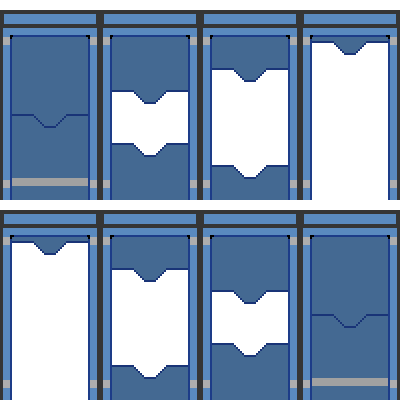
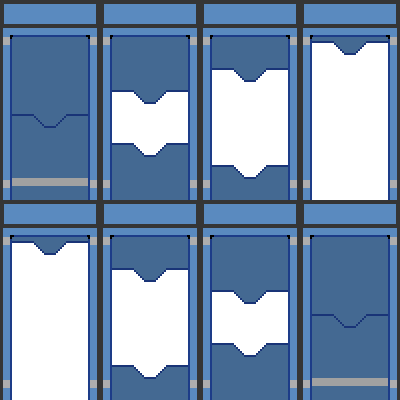
Add doors

Changed region(s): [[0.0, 0.48, 1.0, 0.54], [0.0, 0.0, 1.0, 0.06]]

diff --git a/packages/web-app/src/core/map/parsing.ts b/packages/web-app/src/core/map/parsing.ts
@@ -5,7 +5,7 @@ import { IAnimation, createAnimation } from "../sprites/createAnimation";
 
 type SurroundingWallsMap = Record<
   "top" | "bottom" | "left" | "right" | "self",
-  undefined | ICell<"wall">
+  undefined | ICell<"wall"> | ICell<"door">
 >;
 
 export async function parseMap(rawMap: number[][]): Promise<ICell[]> {
@@ -107,7 +107,7 @@ function getSurroundingWalls(
     self: undefined,
   };
   cells.forEach((cell) => {
-    if (cell.kind !== "wall") {
+    if (cell.kind !== "wall" && cell.kind !== "door") {
       return;
     }
     if (cell.x === x && cell.y === y) {
@@ -132,8 +132,14 @@ function getSurroundingWalls(
 function findFloorType({ x, y }: ICell, cells: ICell[]): FloorType {
   const surroundingWalls = getSurroundingWalls(x, y, cells);
 
+  const topWallType = (surroundingWalls.top as ICell<"wall">)?.properties
+    ?.wallType;
+
+  if (surroundingWalls.self?.kind === "door") {
+    return "floor";
+  }
+
   if (surroundingWalls.self) {
-    const topWallType = surroundingWalls.top?.properties.wallType;
     if (
       (topWallType?.includes("horizontal") || topWallType === "vertical-T") &&
       topWallType !== "horizontal-right-corner-bottom"
@@ -145,12 +151,11 @@ function findFloorType({ x, y }: ICell, cells: ICell[]): FloorType {
   }
   if (
     surroundingWalls.top &&
-    surroundingWalls.top.properties.wallType.includes("horizontal")
+    (topWallType?.includes("horizontal") ||
+      surroundingWalls.top.kind === "door")
   ) {
     // special case for right-corner-top assets, we want a corner shadow
-    if (
-      surroundingWalls.top.properties.wallType === "horizontal-right-corner-top"
-    ) {
+    if (topWallType === "horizontal-right-corner-top") {
       return "floor-shadow-top-left";
     }
     return "floor-shadow-top";

diff --git a/packages/web-app/src/core/map/generation.ts b/packages/web-app/src/core/map/generation.ts
@@ -269,6 +269,12 @@ export function generateMap(): {
           map[mapY + 1][mapX] = 1;
         }
       }
+      // if we just added a vertical corridor, add a door as well
+      if (direction === Direction.North || direction === Direction.South) {
+        const doorX = Math.abs(startX - to.x);
+        const doorY = Math.abs(startY - to.y);
+        map[doorY][doorX] = 2;
+      }
     });
 
   return {
